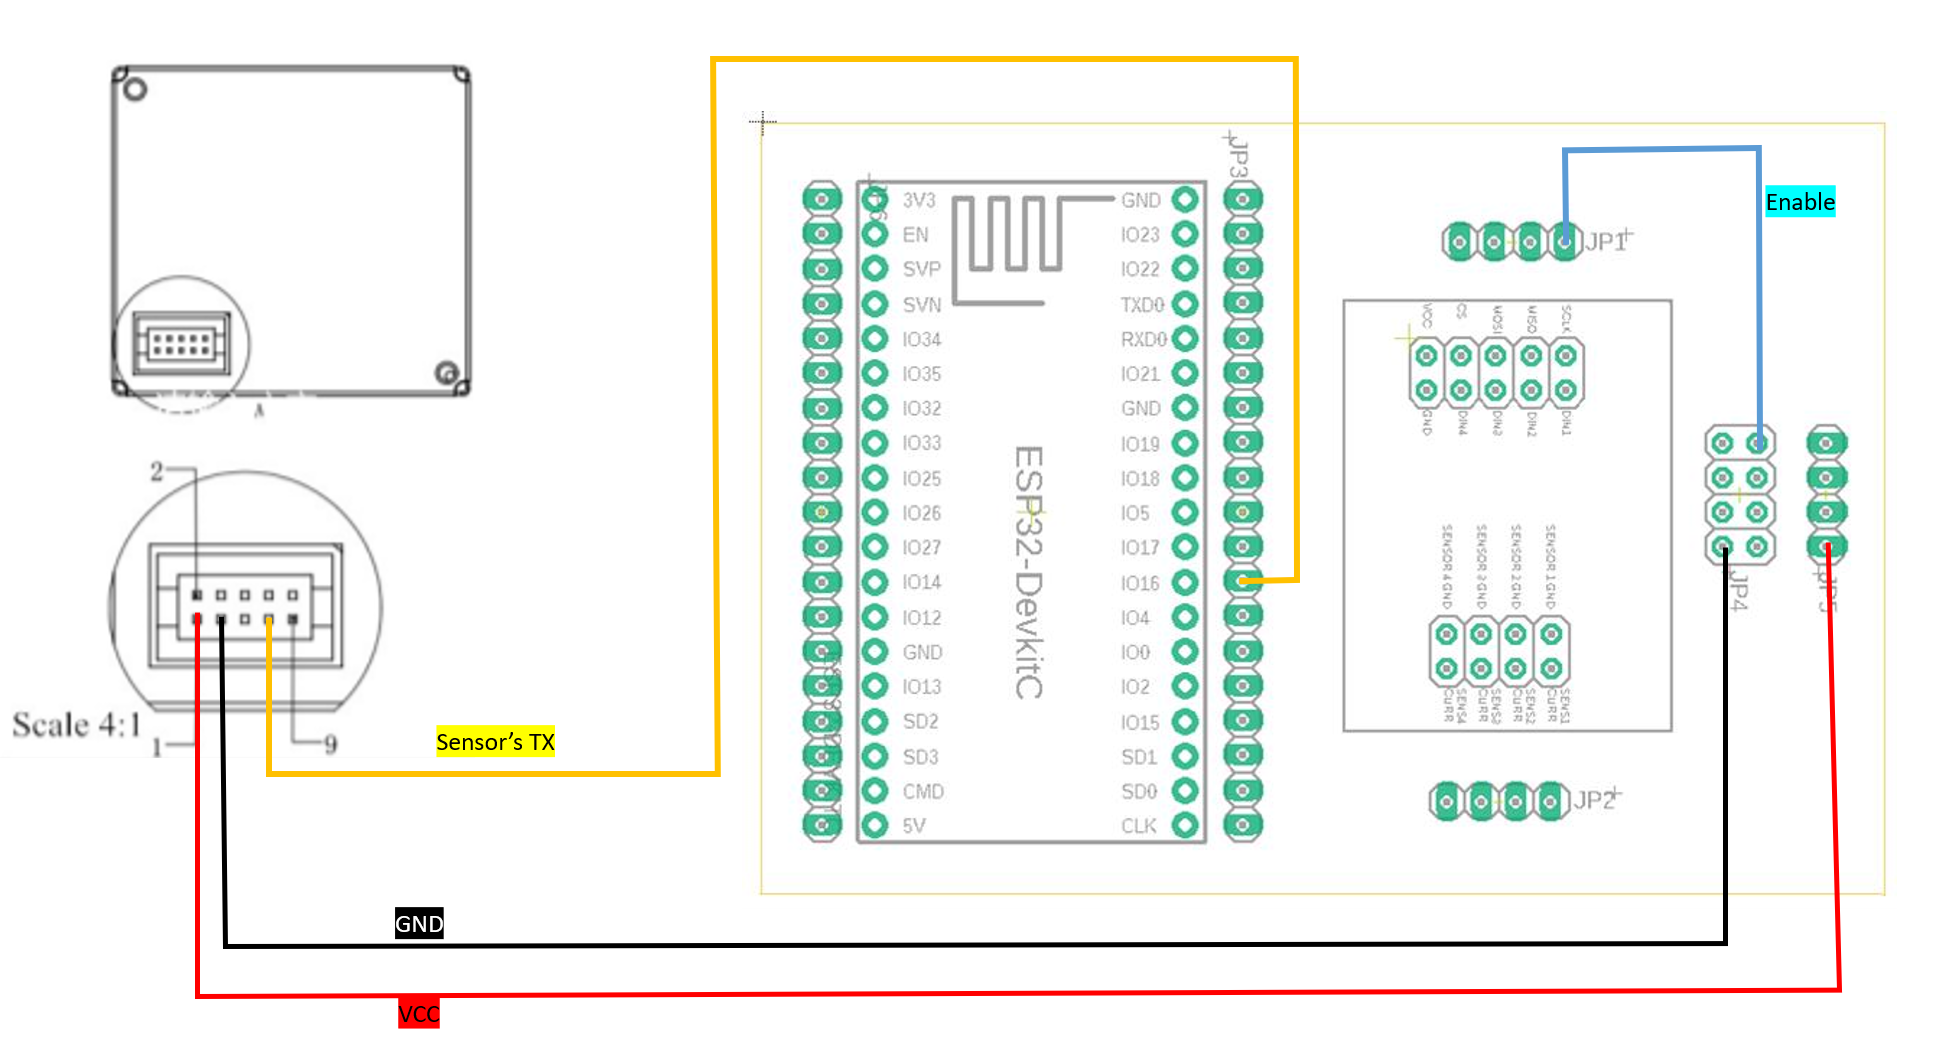
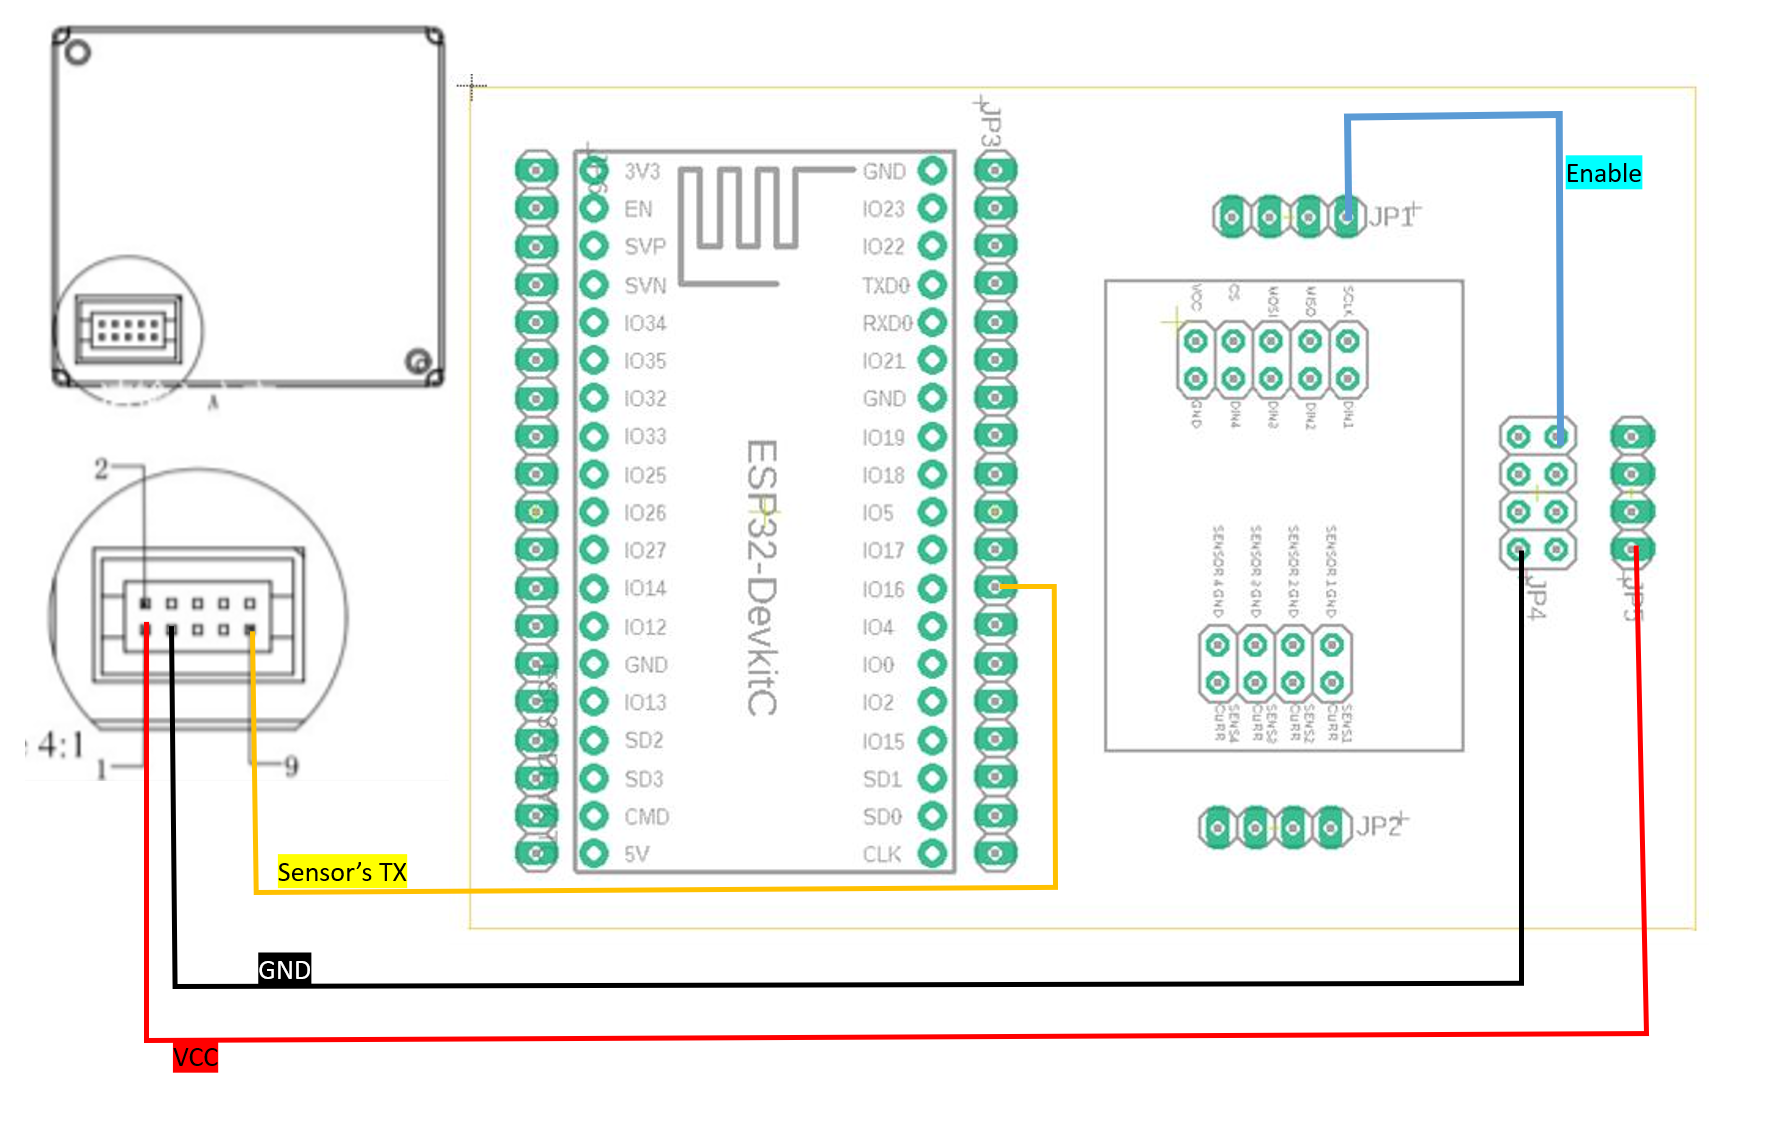
media update

Changed region(s): [[0.0, 0.0, 0.9589, 1.0]]

diff --git a/demos/sample_azure_iot_pnp/README.md b/demos/sample_azure_iot_pnp/README.md
@@ -69,7 +69,7 @@ Verified Telemetry supports both Analog and Digital Sensors for which we have de
     
       | Sensor Name   | Sensor Pin           | MCU Pin | ESP32 Devkit Baseboard PCB Pin |
       |---------------|----------------------|-----------------------------|------------|
-      | Cubic PM2012 | Sensor’s TX (PIN 9)   | RX                          | RX                    |
+      | Cubic PM2012 | Sensor’s TX (PIN 9)   | RX                          | RX(IO16)                    |
       | Cubic PM2012 | VCC (PIN 1)           | -                           | JP5                   |
       | Cubic PM2012 | GND (PIN 3)           | -                           | SENS1GND (JP4)        |    
     
@@ -114,7 +114,7 @@ Verified Telemetry supports both Analog and Digital Sensors for which we have de
     
       | Sensor Name   | Sensor Pin           | MCU Pin | ESP32 Devkit Baseboard PCB Pin |
       |---------------|----------------------|-----------------------------|------------|
-      | Cubic PM2012 | Sensor’s TX (PIN 9)   | RX                          | RX                    |
+      | Cubic PM2012 | Sensor’s TX (PIN 9)   | RX                          | RX(IO16)                    |
       | Cubic PM2012 | VCC (PIN 1)           | -                           | JP5                   |
       | Cubic PM2012 | GND (PIN 3)           | -                           | SENS1GND (JP4)        |
       | Soil Moisture 1 | Analog Out | ADC1 CH4 | IO32               |
